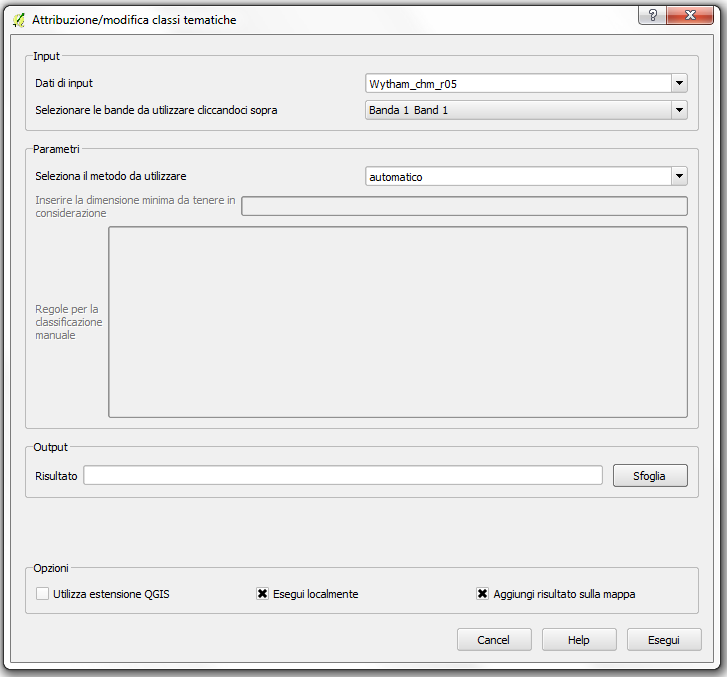
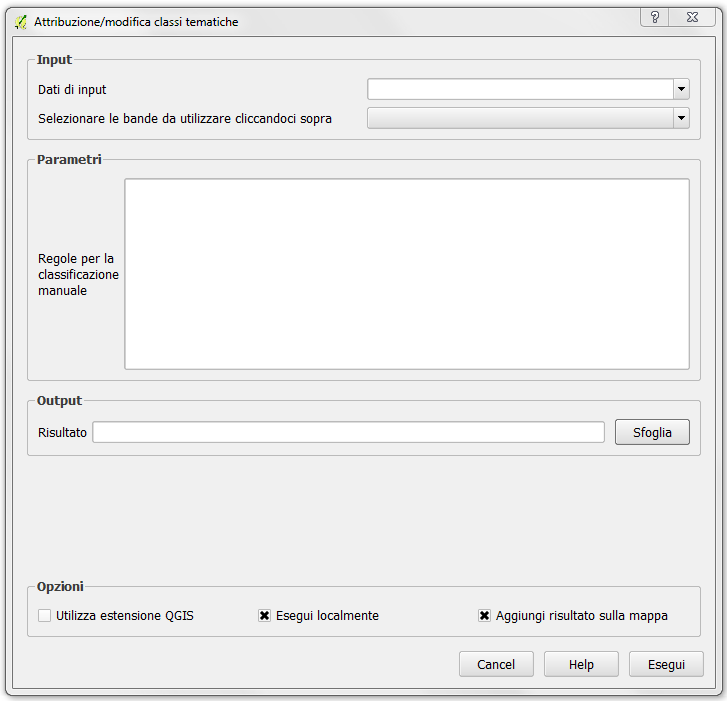
Update of some help images and texts

diff --git a/docs/source/tools/support_vector_regression.rst b/docs/source/tools/support_vector_regression.rst
@@ -2,8 +2,7 @@ Support Vector regression
 ==========================
 
 IIl modulo effettua la classificazione di immagini o vettori usando l'algoritmo di supervisionato non-parametrico Support Vector Regression (SVR). L'algoritmo SVM si basa sul principio che lo spazio delle variabili di partenza può essere trasformato in uno spazio a più alta dimensionalità in cui la stima lineare è possibile. La trasformazione è effettuata utilizzando una funzione kernel.
-Gli input allo stimatore sono un file vettoriale contente una colonna con l'indicazione del target da stimare in formato numerico, e (opzionale) l'indicazione delle variabili (attributi del vettore) da usare nella stima. Se le variabili non sono già contenute nel file vettoriale dovrà essere data in input un'immagine raster da cui estrarle.
-L'utente potrà anche inserire un vettoriale da usare nella fase di validazione.
+Gli input allo stimatore sono un file vettoriale contente una colonna con l'indicazione del target da stimare in formato numerico, e (opzionale) l'indicazione delle variabili (attributi del vettore) da usare nella stima. L'utente potrà anche inserire un vettoriale da usare nella fase di validazione o di mappatura di un'area più ampia (es. vettoriale di una griglia).
 
 .. only:: latex
 
@@ -15,14 +14,16 @@ Input
 
 **Dati di input vettoriale**: file vettoriale contente le aree di training e l'indicazione dei target.
 
-**Seleziona la colonna con indicazione del target**: selezionare tra le colonne del file vettoriale quella che indica il target da stimare.
+**Seleziona la colonna con indicazione del parametro da stimare**: selezionare tra le colonne del file vettoriale quella che indica il parametro da stimare.
 
-**Dati di input raster** (opzionale): immagine da cui estrarre le variabili e da stimare (opzionale).
-
-**Seleziona le bande da utilizzare cliccandoci sopra** (opzionale): selezionare le bande da utilizzare. Se non si seleziona nulla vengono usate tutte le bande.
+**Seleziona le variabili da utilizzare cliccandoci sopra** (opzionale): selezionare le variabili da utilizzare. Se non si seleziona nulla vengono usate tutte le variabili.
 
 Parametri
 ------------
+
+**Effettuare la cross-validation**: se scelto viene effettuata la cross validation.
+
+**Inserire il numero di fold della cross-validation**: inserire il numero di fold della cross-validation.
 
 **Selezionare il kernel da utilizzare**:
 
@@ -46,14 +47,23 @@ Parametri
 
 **File di selezione** (opzionale): inserire il file ottenuto in output dal modulo "Selezione variabili per la stima". Attivato solo se l'opzione "file" viene scelta nel menu "selezione variabili".
 
-**Vettoriale di validazione** (opzionale): file vettoriale contenente le aree di validazione e l'indicazione del target.
+**Vettoriale di validazione** (opzionale): file vettoriale contenente le aree di validazione o di mappatura. I nomi delle colonne del vettoriale devono essere le stesse delle varaibili utilizzate nella creazione del modello.
 
-**Seleziona la colonna per la validazione** (opzionale): selezionare tra le colonne del file vettoriale quella che indica il target.
+**Seleziona la colonna per la validazione** (opzionale): selezionare tra le colonne del file vettoriale quella che indica il target. Se si effettua la mappatura non ve scelto nulla.
+
+**Indice di accuratezza per la selezione del modello** (opzionale):
+
+	* *MSE*: Mean Square Error.
+	* *R2*: R2.
+
+**Creare output**: se scelto viene creato l'output, ovvero un vettoriale uguiale a quello di validazione/mappatura con un campo aggiuntivo col parametro stimato. Se non viene dato nessun input alla voce *Vettoriale di validazione* l'output verrà creato partendo dal vettoriale di training.
 
 Output
 ------------
 
 **Risultato**: inserire il percorso e il nome del file di output.
+
+**Colonna per i valori della stima**: nome della colonna dove verranno salvati i valori stimati. Al nome indicato viene aggiunta in fondo una *S* per indicare ceh la stima è stata effettuata mediante stimatore SVR.
 
 .. only:: latex
 

diff --git a/docs/source/tools/attribuzione_modifica_classi_tematiche.rst b/docs/source/tools/attribuzione_modifica_classi_tematiche.rst
@@ -1,8 +1,11 @@
 Attribuzione/modifica classi tematiche
 =========================================
 
-Il modulo permette di modificare un mappa di classificazione aggregando le classi per area o modificandole manualmente.
-Questo modulo va usato nella fase di post-classificazione, per esempio per passare da una mappa di dettaglio delle specie forestali ad una meno dettagliata contenente solo le classi "conifere" e "latifoglie". Può essere inoltre usato per aggregare mappe di classificazione a pixel in aree di interesse.
+Il modulo permette di modificare un mappa di classificazione aggregando le classi manualmente.
+Questo modulo va usato nella fase di post-classificazione, per esempio per passare da una mappa di dettaglio delle specie forestali ad una meno dettagliata contenente solo le classi "conifere" e "latifoglie".
+Può anche essere usato per aggregare i valori del CHM in classi di altezza.
+
+Per maggiori informazioni si veda la documentazione del comando di GRASS GIS utilizzato `r.reclass <http://grass.osgeo.org/grass70/manuals/r.reclass.html>`_
 
 .. only:: latex
 
@@ -17,11 +20,7 @@ Input
 Parametri
 ------------
 
-**Selezionare il metodo da utilizzare**:
-
- * *Area*:  Per maggiori informazioni si veda la documentazione del comando di GRASS GIS utilizzato `r.reclass.area <http://grass.osgeo.org/grass70/manuals/r.reclass.area.html>`_
-
- * *Manuale*: nella finestra vanno inserite le regole da utilizzare per la riclassificazione dell'immagine. Ogni riga deve essere strutturata in questo modo:
+**Regole per la classificazione manuale**: nella finestra vanno inserite le regole da utilizzare per la riclassificazione dell'immagine. Ogni riga deve essere strutturata in questo modo:
 
      *input_categories=output_category [label]*
 
@@ -34,7 +33,6 @@ Parametri
         In questo caso le classi 1, 2 e 3 sono trasformate nella classe 1 che viene rinominata "conifere", le classi 4 e 5 sono trasformate
         nella classe 2 rinominata "latifoglie", e tutte le altre classi vengono lasciate inalterate " * = * ".
 
-   Per maggiori informazioni si veda la documentazione del comando di GRASS GIS utilizzato `r.reclass <http://grass.osgeo.org/grass70/manuals/r.reclass.html>`_
 
 Output
 ------------

diff --git a/docs/source/tools/stimatore_lineare.rst b/docs/source/tools/stimatore_lineare.rst
@@ -2,15 +2,14 @@ Stimatore lineare
 =================
 
 Il modulo esegue la stima di parametri utilizzando uno stimatore lineare.
-Gli input allo stimatore sono un file vettoriale contente una colonna con l'indicazione del target da stimare (es: volume) in formato numerico, e (opzionale) l'indicazione delle variabili (attributi del vettore) da usare nella stima (es: percentili LIDAR, altezza LIDAR media, dimensione della chioma, ecc.). Se le variabili non sono già contenute nel file vettoriale dovrà essere data in input un'immagine raster da cui estrarle.
-L'utente potrà anche inserire un vettoriale da usare nella fase di validazione.
+Gli input allo stimatore sono un file vettoriale contente una colonna con l'indicazione del target da stimare (es: volume) in formato numerico, e (opzionale) l'indicazione delle variabili (attributi del vettore) da usare nella stima (es: percentili LIDAR, altezza LIDAR media, dimensione della chioma, ecc.). L'utente potrà anche inserire un vettoriale da usare nella fase di validazione o per mappare un'area più ampia (es. vettoriale di una griglia).
 
 .. only:: latex
 
   .. image:: ../_static/tool_images/stimatore_lineare.png
 
 *Esempio*: stima diametro singoli alberi
-Lo shapefile di input ("Dati di input vettoriale") avra' per esempio una tabella degli attributidi questo tipo:
+Lo shapefile di input ("Dati di input vettoriale") avrà per esempio una tabella degli attributidi questo tipo:
 
   .. image:: ../_static/tool_images/stimatore_lineare_esempio_input.png
 
@@ -56,6 +55,8 @@ Output
 ------------
 
 **Risultato**: inserire il percorso e il nome del file di output.
+
+**Colonna per i valori della stima**: nome della colonna dove verranno salvati i valori stimati. Al nome indicato viene aggiunta in fondo una *L* per indicare ceh la stima è stata effettuata mediante stimatore lineare.
 
 .. only:: latex
 

diff --git a/docs/source/tools/selezione_feature_per_classificazione.rst b/docs/source/tools/selezione_feature_per_classificazione.rst
@@ -9,6 +9,10 @@ La distanza di Jeffries-Matusita satura ad un valore pari a radice di 2, quindi 
   Ogni classe deve avere un numero di pixel superiore al numero totale di bande. Se questo vincolo non è soddisfatto la selezione si blocca in anticipo rispetto al valore ottimale a causa della non invertibilità della matrice di covarianza della classe il cui numero di campioni è limitato. Il modulo da comunque in output la selezione con un numero di bande non ottimale.
 
 
+.. warning::
+
+  Se una banda del file di input contiene valori dei pixel tutti uguali è probabile che la selezione si blocchi alla prima iterazione. Si consiglia di verificare quindi i valori delle bande, e semmai rimuovere le bande corrotte, per evitare questo problema.
+
 .. only:: latex
 
   .. image:: ../_static/tool_images/selezione_feature_per_classificazione.png
